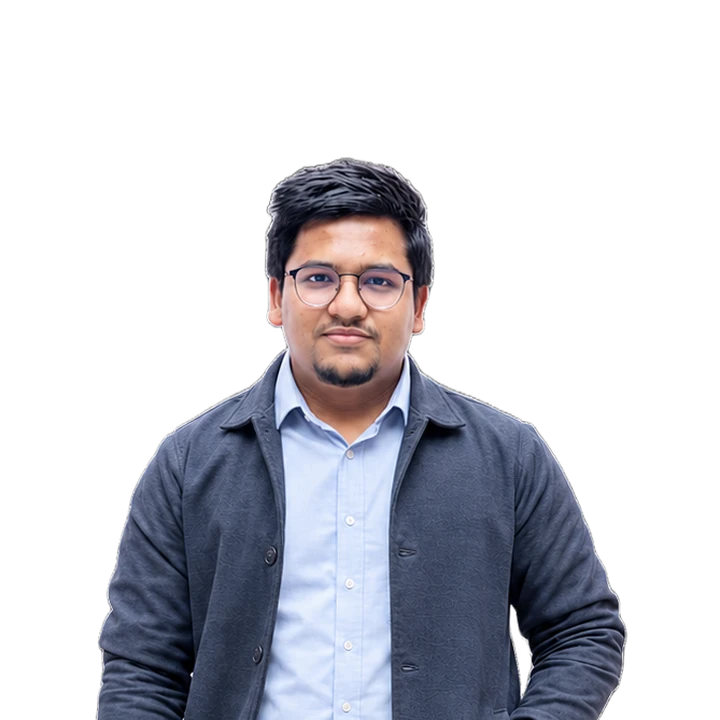
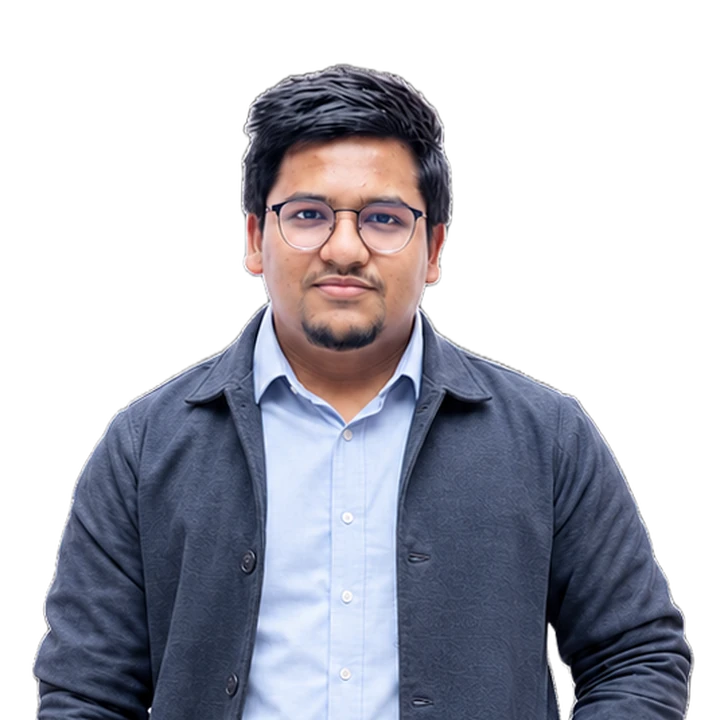
Zoom in mobile circle photo

diff --git a/index.html b/index.html
@@ -590,7 +590,7 @@
   <section id="about">
     <div class="container">
       <div class="about-grid">
-        <div class="about-photo"><img class="ph-desktop" src="assets/profile.webp?v=7" alt="Sarwar Shuvo" style="position:absolute;inset:0;width:100%;height:100%;object-fit:cover;z-index:2;"><img class="ph-mobile" src="assets/profile-circle.webp?v=7" alt="Sarwar Shuvo" style="position:absolute;inset:0;width:100%;height:100%;object-fit:cover;z-index:2;"></div>
+        <div class="about-photo"><img class="ph-desktop" src="assets/profile.webp?v=8" alt="Sarwar Shuvo" style="position:absolute;inset:0;width:100%;height:100%;object-fit:cover;z-index:2;"><img class="ph-mobile" src="assets/profile-circle.webp?v=8" alt="Sarwar Shuvo" style="position:absolute;inset:0;width:100%;height:100%;object-fit:cover;z-index:2;"></div>
         <div class="about-text">
           <div class="section-head" style="margin-bottom:24px">
             <div class="eyebrow">About me</div>
